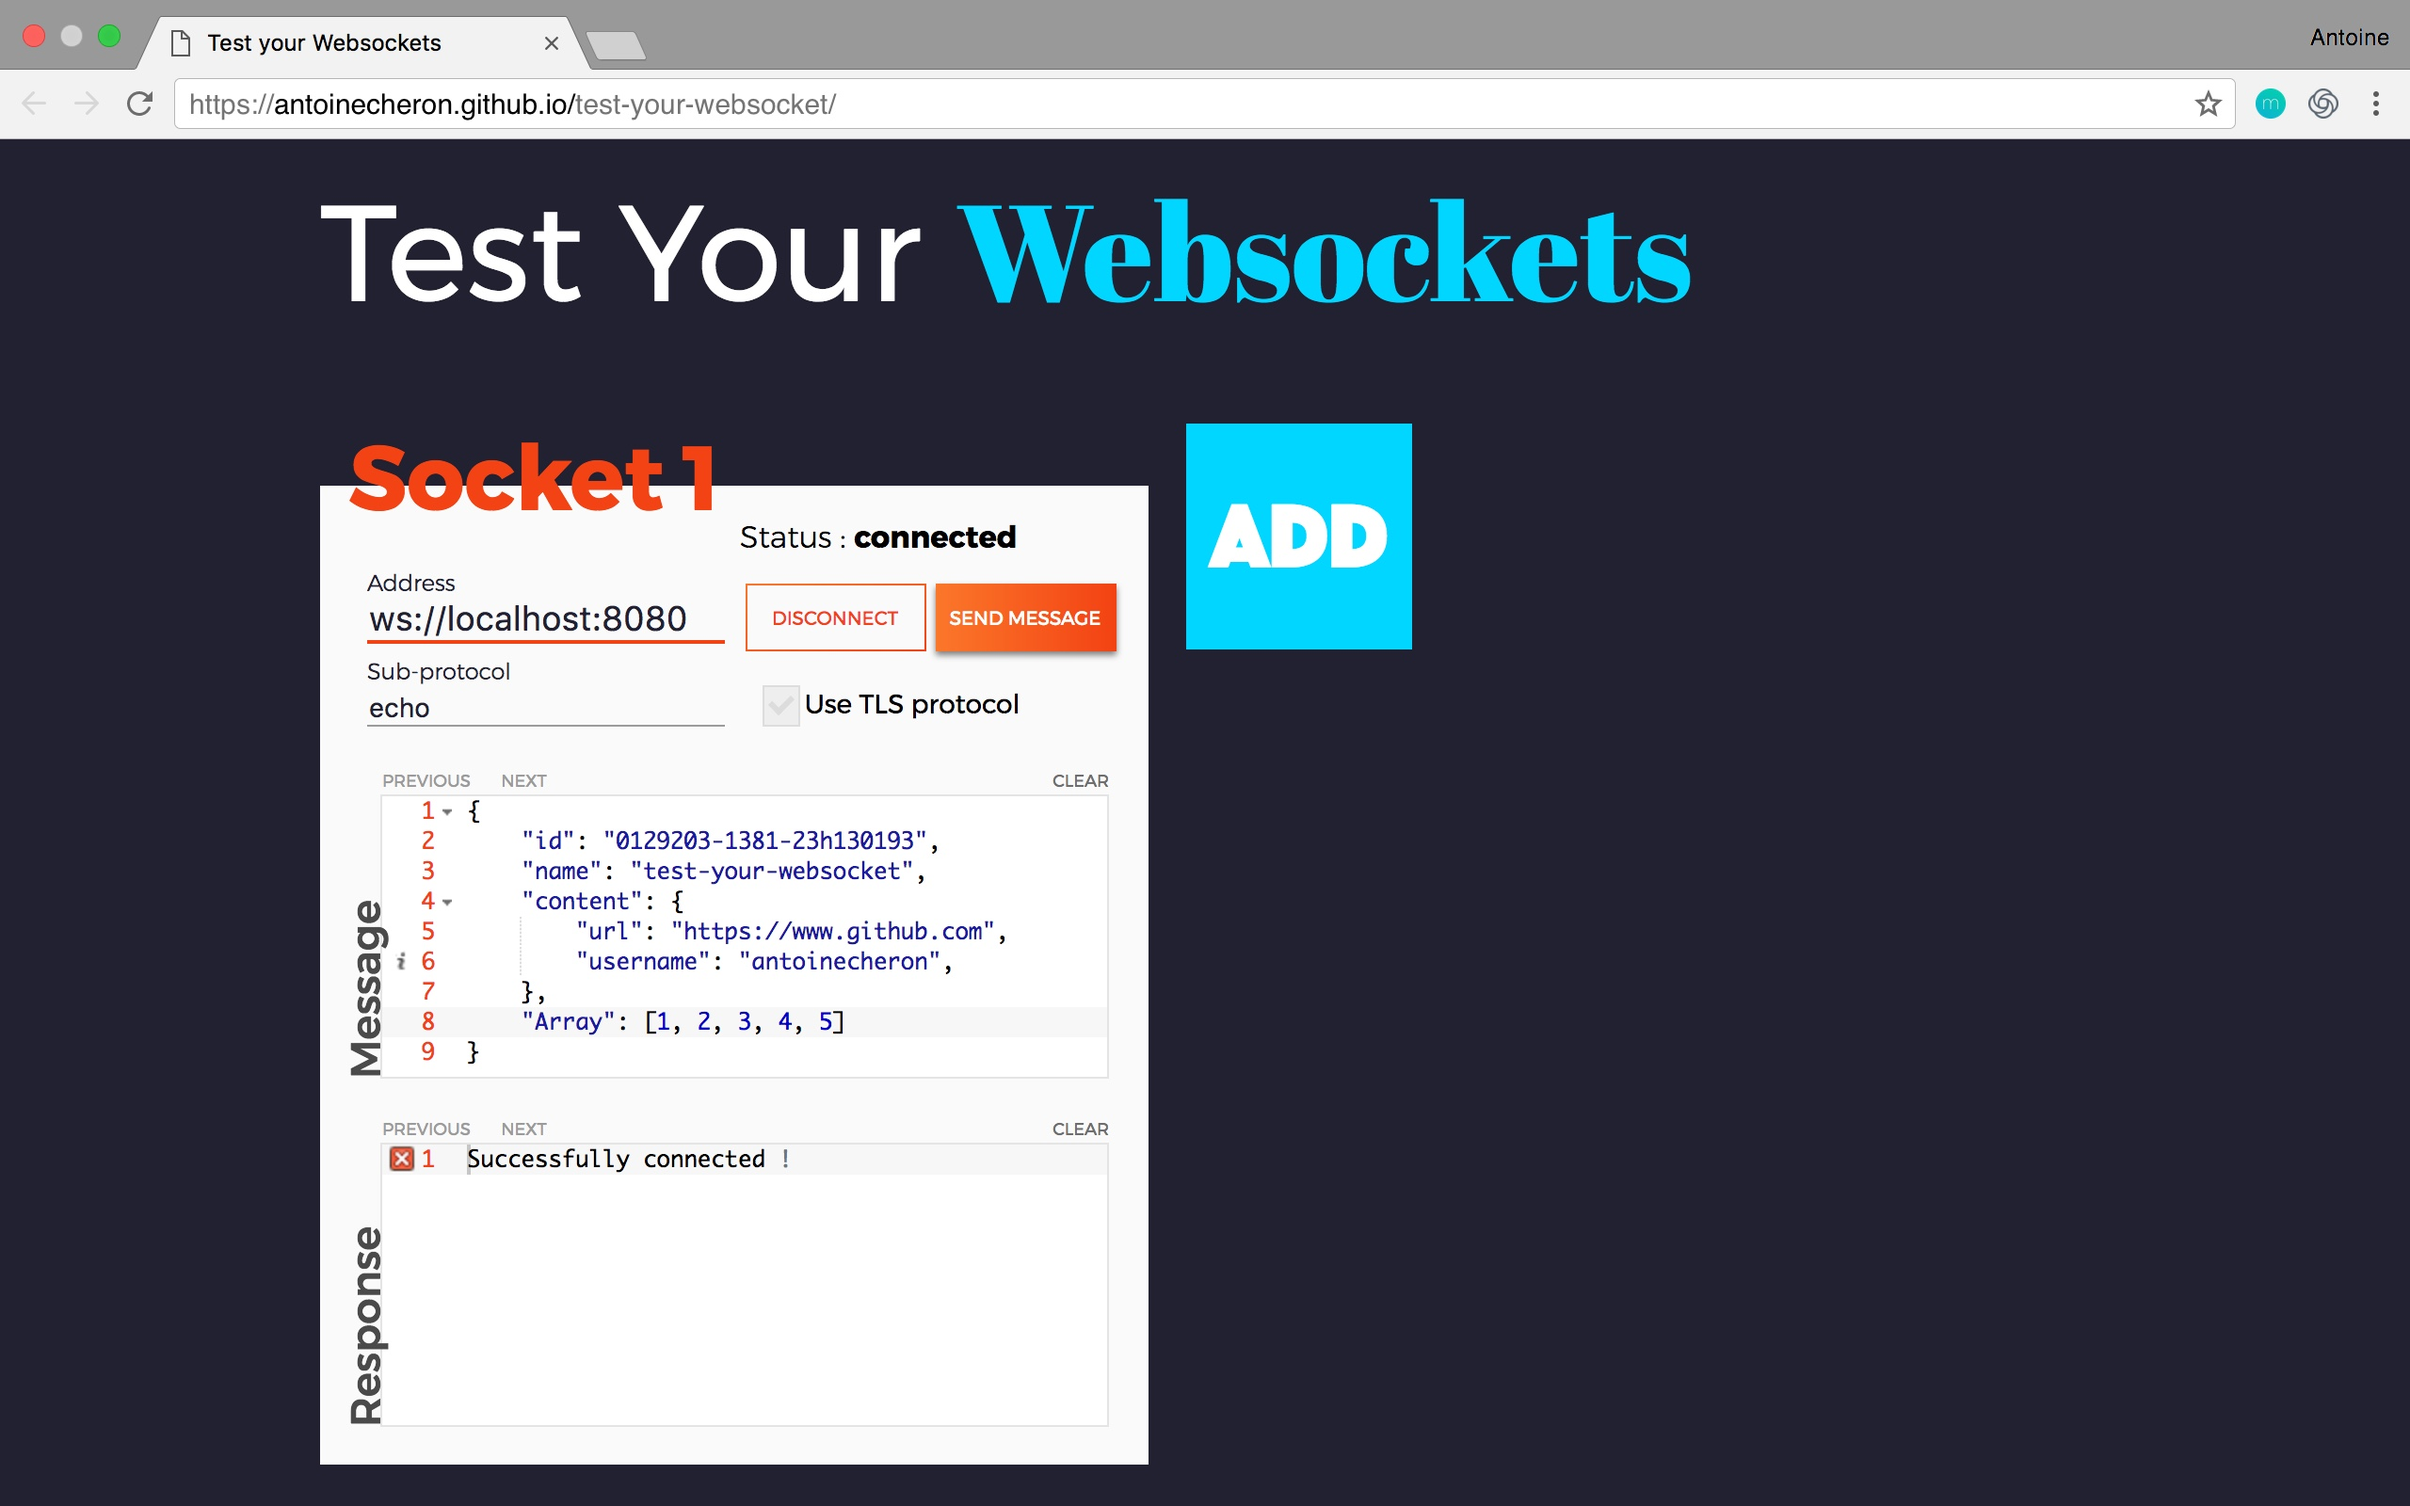
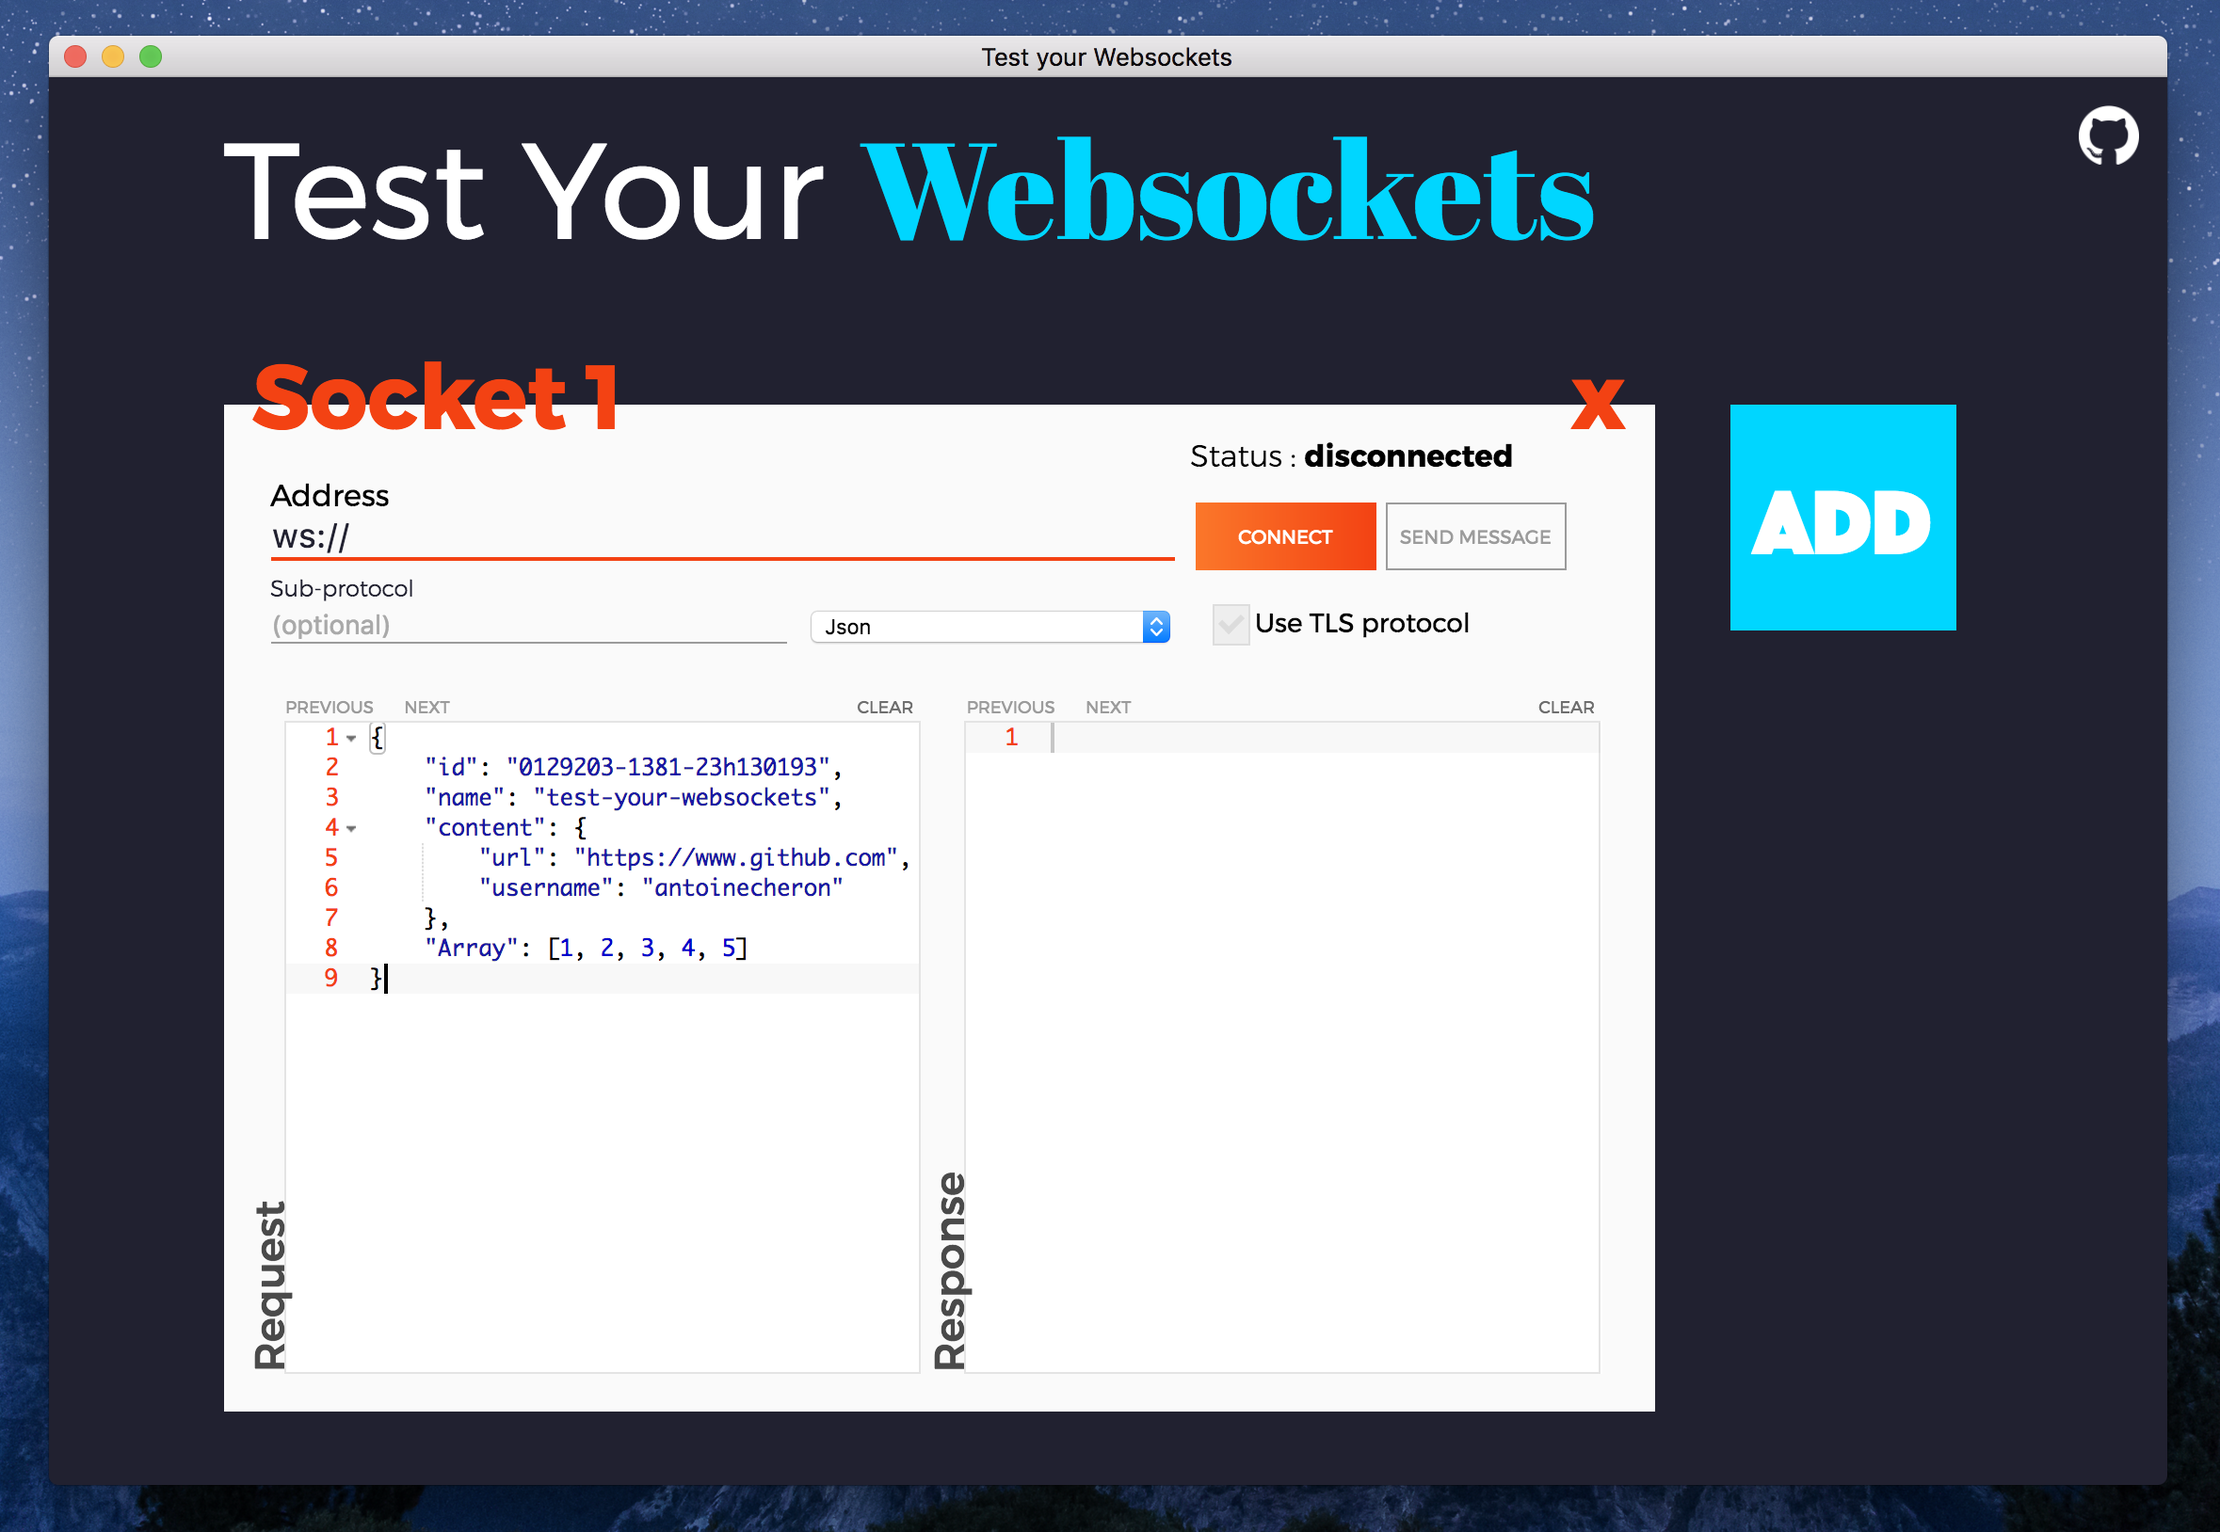
Readme update

diff --git a/README.md b/README.md
@@ -18,10 +18,10 @@ Feel free to share your ideas and improvements !
 * Previous/next requests and responses + response linked to the request
 * Log everything in the response area
 * Code error translation to reason
+* Desktop app available, based on electron
 
 ## Coming features
 
-- A desktop version based on Electron ?
 - Share your ideas, open an issue :)
 
 ## How to add your own encoding/decoding feature
@@ -60,6 +60,7 @@ Please respect the rules described here : https://code.tutsplus.com/tutorials/ho
 * [VueJS](https://vuejs.org/)
 * [SASS/SCSS](http://sass-lang.com/)
 * [ACE Editor](https://ace.c9.io/)
+* [Electron](https://electron.atom.io)
 
 ## External resources
 
